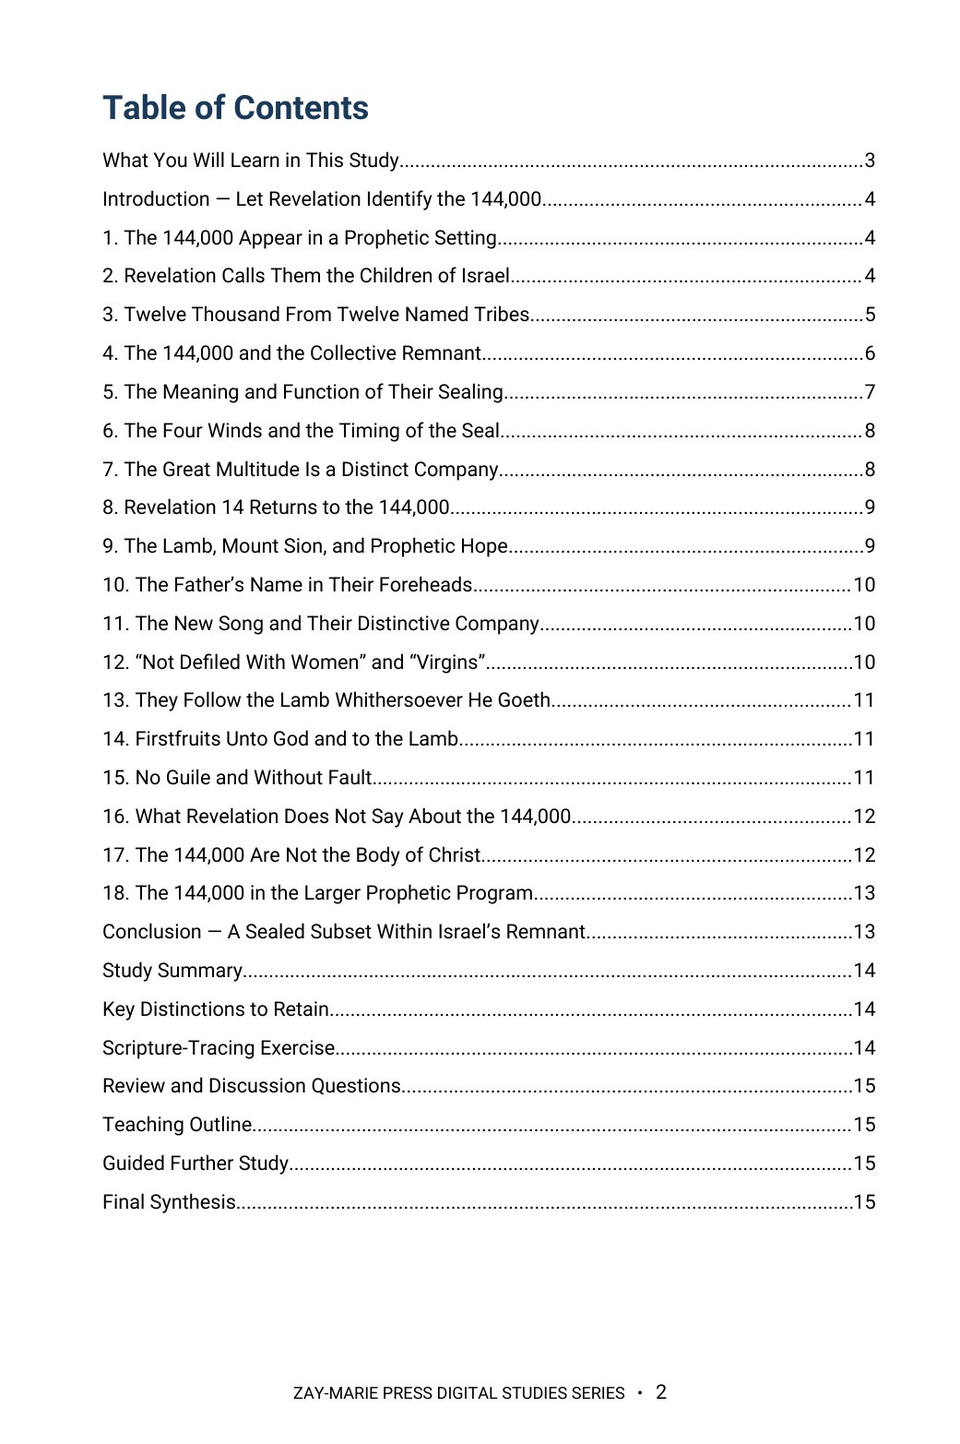
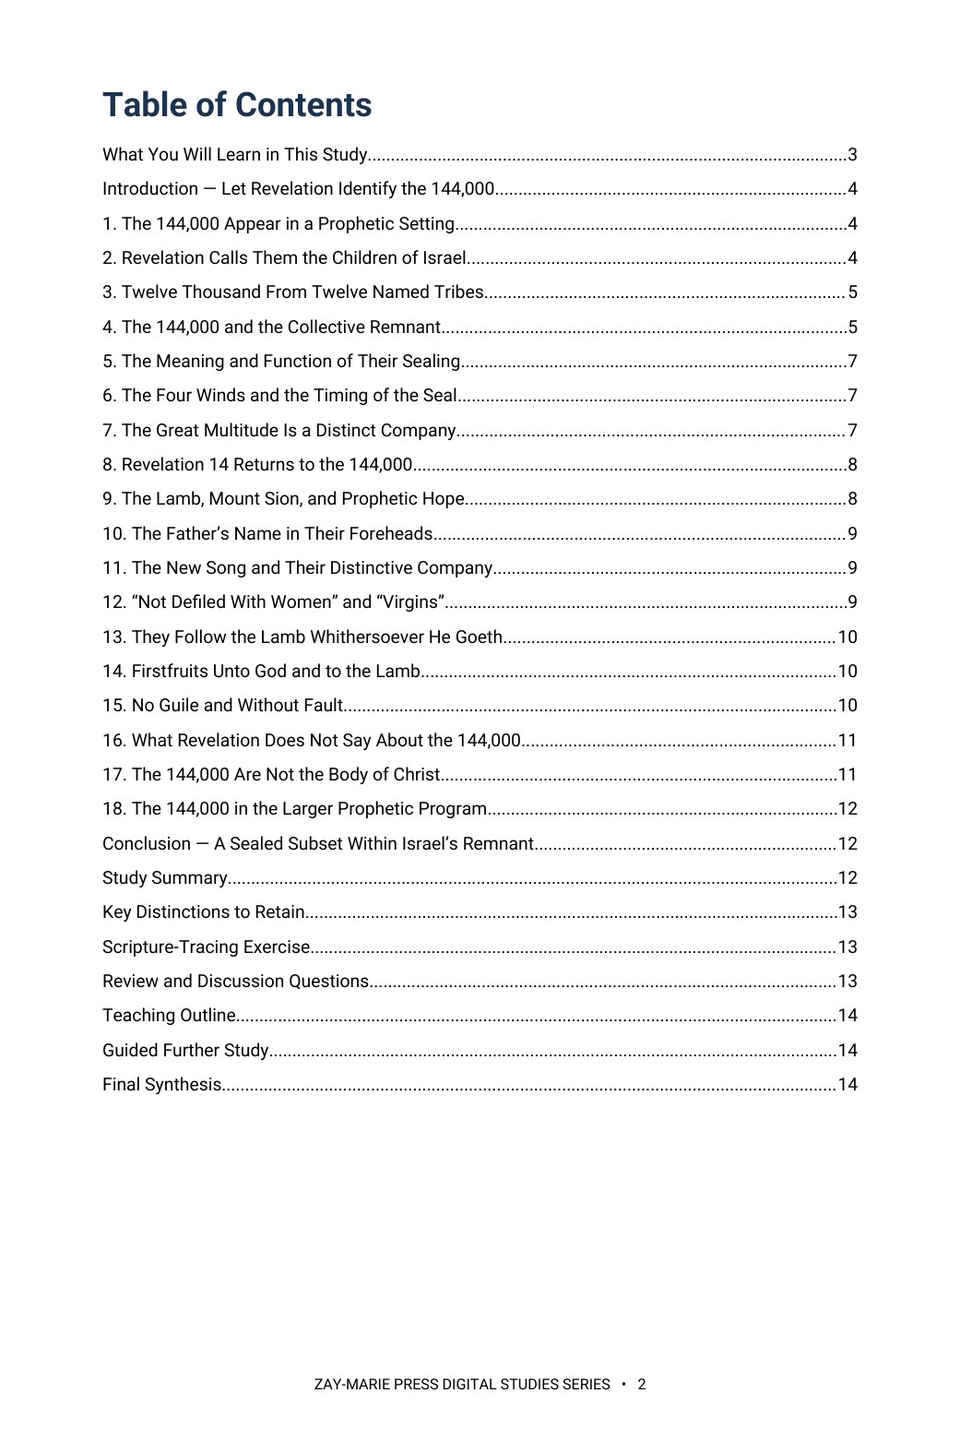
Study 23: retrofit website step (14 pages, previews 2/3/9, trackers v1.36/v1.130)
Claude-Session: https://claude.ai/code/session_01KcENxFzE91mCRyTPWhcwnE

diff --git a/study-23-the-144000.html b/study-23-the-144000.html
@@ -14,7 +14,7 @@
   <body class="study-detail-page">
     <header class="site-header"><div class="wrap nav"><a class="logo" href="index.html" aria-label="Zay-Marie Press home"><img src="assets/zay-marie-press-logo-hq.png" alt="Zay-Marie Press" width="420" height="238" /></a><button class="menu-toggle" type="button" aria-expanded="false" aria-controls="primary-nav">MENU</button><nav aria-label="Primary navigation" class="primary-nav" id="primary-nav"><a href="index.html">HOME</a><a href="books.html">BOOKS</a><a href="series.html">SERIES</a><a class="active" aria-current="page" href="digital-studies.html">DIGITAL STUDIES</a><a href="biblical-hermeneutics-course.html">COURSE</a><a href="about.html">ABOUT</a><a href="resources.html">RESOURCES</a><a href="contact.html">CONTACT</a></nav></div></header>
     <main>
-      <section class="detail-hero"><div class="wrap detail-hero-grid"><div class="detail-cover"><picture><source srcset="assets/study-23-cover.webp" type="image/webp"><img src="assets/study-23-cover.jpg" alt="The 144,000 - Study 23 cover" /></picture></div><div><div class="eyebrow">STUDY 23 · DIGITAL STUDY</div><h1>The 144,000</h1><p class="detail-subtitle">Israel’s Sealed Servants in God’s Prophetic Program</p><p class="detail-kicker">A Biblical Study of Revelation’s Tribal Identification, Sealing, and Distinct Companies</p><p class="detail-copy">Revelation identifies the 144,000 with unusual precision: a numbered company sealed from the tribes of the children of Israel. Their tribal identity, sealing, and later appearance with the Lamb belong within Israel’s prophetic program.</p><p class="detail-copy">This study follows Revelation 7 and 14 to distinguish the 144,000 from Israel’s larger believing remnant, the great multitude, and the Body of Christ. It lets Revelation’s own labels govern the conclusion.</p><div class="detail-buyline"><span class="detail-price">$5.99</span><span class="detail-format">Digital PDF · 16 Pages</span><span class="detail-button pending" aria-disabled="true">Checkout Coming Soon</span></div></div></div></section>
+      <section class="detail-hero"><div class="wrap detail-hero-grid"><div class="detail-cover"><picture><source srcset="assets/study-23-cover.webp" type="image/webp"><img src="assets/study-23-cover.jpg" alt="The 144,000 - Study 23 cover" /></picture></div><div><div class="eyebrow">STUDY 23 · DIGITAL STUDY</div><h1>The 144,000</h1><p class="detail-subtitle">Israel’s Sealed Servants in God’s Prophetic Program</p><p class="detail-kicker">A Biblical Study of Revelation’s Tribal Identification, Sealing, and Distinct Companies</p><p class="detail-copy">Revelation identifies the 144,000 with unusual precision: a numbered company sealed from the tribes of the children of Israel. Their tribal identity, sealing, and later appearance with the Lamb belong within Israel’s prophetic program.</p><p class="detail-copy">This study follows Revelation 7 and 14 to distinguish the 144,000 from Israel’s larger believing remnant, the great multitude, and the Body of Christ. It lets Revelation’s own labels govern the conclusion.</p><div class="detail-buyline"><span class="detail-price">$5.99</span><span class="detail-format">Digital PDF · 14 Pages</span><span class="detail-button pending" aria-disabled="true">Checkout Coming Soon</span></div></div></div></section>
       <section class="detail-section"><div class="wrap"><div class="eyebrow">ABOUT THIS STUDY</div><h2>Who Are the 144,000?</h2><p class="lead">The 144,000 are neither the entirety of Israel’s believing remnant nor a symbolic title for the Body of Christ. Revelation identifies them as a specific, numbered, sealed company from Israel’s tribes.</p><p class="lead">By tracing each explicit marker—tribes, number, seal, company, Lamb, Mount Sion, firstfruits, and faultlessness—the study preserves their place within Israel’s prophetic hope without assigning to them more than Scripture states.</p><p class="lead">This is not a study of Israel’s believing remnant generally, which Study 9 follows across her whole history, nor of Revelation’s seven churches and their own setting, which Study 26 examines first. Its task is narrower: to ask what a specific, numbered, sealed company can be shown to be from the text alone, and to keep that one company from absorbing every promise Scripture makes to a faithful Israelite.</p><div class="study-distinction"><h3>How These Studies Relate</h3><p>Study 23 identifies Revelation’s numbered, sealed Israelite company in chapters 7 and 14.</p><p><a href="study-09-the-remnant.html">Study 9 — The Remnant</a> Compare this specifically numbered tribal company with the wider believing remnant; this prevents one group from standing in for every faithful Israelite.</p><p><a href="study-26-the-seven-churches-of-revelation.html">Study 26 — The Seven Churches of Revelation</a> Read the earlier messages to Revelation’s seven assemblies in their own setting before connecting later scenes and groups in the book.</p><p><a href="study-61-revelation-12.html">Study 61 — Revelation 12</a> See this same numbered company appear as the male child of 12:5, caught up before the dragon can reach him.</p><p class="connection-guide-link"><a href="study-connections.html#study-23">Explore the full connection guide for Study 23 →</a></p></div></div></section>
       <section class="detail-section soft"><div class="wrap"><div class="eyebrow">WHAT YOU’LL STUDY</div><h2>Read Revelation’s Identification on Its Own Terms</h2><div class="study-points">
         <div class="study-point"><h3>Revelation’s Israelite Identification</h3><p>Start with Revelation 7:4, where the sealed company is identified in explicit Israelite and tribal language.</p></div>
@@ -38,7 +38,7 @@
       <section class="detail-section soft"><div class="wrap"><div class="eyebrow">A LOOK INSIDE</div><h2>Preview the Study Before You Purchase</h2><p class="preview-instruction">Click any page to enlarge it for reading.</p><div class="preview-grid">
         <div class="preview-card"><a class="preview-image-link" data-preview-lightbox href="assets/study-23-page-2.jpg"><img src="assets/study-23-page-2.jpg" alt="Study 23 interior preview — page 2, Table of Contents" /></a><div class="page-no">Page 2</div><h3>Table of Contents</h3><p>See the full path of the study, from the first identifiers in Revelation 7 to the final synthesis.</p></div>
         <div class="preview-card"><a class="preview-image-link" data-preview-lightbox href="assets/study-23-page-3.jpg"><img src="assets/study-23-page-3.jpg" alt="Study 23 interior preview — page 3, What You Will Learn in This Study" /></a><div class="page-no">Page 3</div><h3>What You Will Learn in This Study</h3><p>Begin with the textual markers and interpretive disciplines the study will teach.</p></div>
-        <div class="preview-card"><a class="preview-image-link" data-preview-lightbox href="assets/study-23-page-10.jpg"><img src="assets/study-23-page-10.jpg" alt="Study 23 interior preview — page 10, the Father’s name, the new song, and purity" /></a><div class="page-no">Page 10</div><h3>Revelation 14 Description</h3><p>Read the characteristics Revelation 14 adds, one marker at a time.</p></div>
+        <div class="preview-card"><a class="preview-image-link" data-preview-lightbox href="assets/study-23-page-9.jpg"><img src="assets/study-23-page-9.jpg" alt="Study 23 interior preview — page 9, the Father’s name, the new song, and purity" /></a><div class="page-no">Page 10</div><h3>Revelation 14 Description</h3><p>Read the characteristics Revelation 14 adds, one marker at a time.</p></div>
       </div></div></section>
       <section class="detail-section"><div class="wrap"><div class="eyebrow">WHAT’S INCLUDED</div><h2>A Focused Study Built for<br />Understanding and Teaching</h2><div class="includes-grid">
         <div class="include-item"><h3>Revelation 7 Examination</h3><p>Read the seal, number, and tribal list together to identify the 144,000 according to the text.</p></div>

diff --git a/site.js b/site.js
@@ -62,7 +62,7 @@ const resourceModal=document.querySelector('#resource-modal'), resourceModalTitl
 if(resourceModal&&resourceModalTriggers.length){const closeResourceModal=()=>{resourceModal.hidden=true;document.body.classList.remove('resource-modal-open');lastResourceTrigger?.focus();};resourceModalTriggers.forEach(trigger=>trigger.addEventListener('click',()=>{lastResourceTrigger=trigger;if(resourceModalTitle)resourceModalTitle.textContent=trigger.dataset.title||'Resource';if(resourceModalDescription)resourceModalDescription.textContent=trigger.dataset.description||'';if(resourceModalLink){resourceModalLink.href=trigger.dataset.href||'#';resourceModalLink.textContent=trigger.dataset.linkText||'OPEN RESOURCE';}resourceModal.hidden=false;document.body.classList.add('resource-modal-open');resourceModalClose?.focus();}));resourceModalClose?.addEventListener('click',closeResourceModal);resourceModal.addEventListener('click',e=>{if(e.target===resourceModal)closeResourceModal();});document.addEventListener('keydown',e=>{if(e.key==='Escape'&&!resourceModal.hidden)closeResourceModal();});}
 
 /* Display the verified final-PDF page count at the primary purchase decision point. */
-const digitalStudyPageCounts={1:17,2:14,3:16,4:18,5:16,6:16,7:14,8:13,9:16,10:20,11:15,12:15,13:19,14:15,15:16,16:16,17:18,18:18,19:16,20:16,21:17,22:16,23:16,24:16,25:17,26:18,27:16,28:16,29:16,30:17,31:19,32:16,33:16,34:16,35:16,36:16,37:16,38:16,39:16,40:16,41:16,42:16,43:16,44:16,45:16,46:16,47:16,48:16,49:17,50:16,51:16,52:16,53:16,54:16,55:16,56:16,57:16,58:16,61:16,62:16,63:16,64:16,65:16,66:16,67:16,68:16,69:16,70:16,71:16};
+const digitalStudyPageCounts={1:17,2:14,3:16,4:18,5:16,6:16,7:14,8:13,9:16,10:20,11:15,12:15,13:19,14:15,15:16,16:16,17:18,18:18,19:16,20:16,21:17,22:16,23:14,24:16,25:17,26:18,27:16,28:16,29:16,30:17,31:19,32:16,33:16,34:16,35:16,36:16,37:16,38:16,39:16,40:16,41:16,42:16,43:16,44:16,45:16,46:16,47:16,48:16,49:17,50:16,51:16,52:16,53:16,54:16,55:16,56:16,57:16,58:16,61:16,62:16,63:16,64:16,65:16,66:16,67:16,68:16,69:16,70:16,71:16};
 const digitalStudyMatch=window.location.pathname.match(/\/study-(\d+)-/i);
 const digitalStudyFormat=document.querySelector('.detail-hero .detail-format');
 if(digitalStudyMatch&&digitalStudyFormat){const studyNumber=Number(digitalStudyMatch[1]),pageCount=digitalStudyPageCounts[studyNumber];if(pageCount)digitalStudyFormat.textContent=`Digital PDF · ${pageCount} Pages`;}

diff --git a/CLAUDE.md b/CLAUDE.md
@@ -20,7 +20,7 @@ These are kept in the repo at `controlling-documents/` and are the current versi
 - As of v1.47 (publisher directive, 2026-10-02), §6 adds the **Interior Page Geometry and Text Layout Standard**, written into this file in the same pass: every Digital Study, earlier studies included, is set on the later studies' page and layout, not only in Roboto at the same sizes. Page 483.846 × 725.754 pt (9677 × 14515 twips) for cover and interior; cover its own full-bleed section (360 twip margins, no footer); interior margins top 864, bottom 1224, left/right 1031, header 400, footer 475; body left-aligned and flush left with no first-line indent (9 pt black Roboto Regular, 6 pt after, 0 before, 1.08); bold only for run-in leads ("Read:", "Purpose:", "Bring Your Findings Together:") and short emphasis, never a whole paragraph; lists 0 pt after each item and 6 pt after the last, 1.08; callout boxes 7815 twips wide with −100 twip indent; TOC right tab with dot leaders at 7615 twips; only the TOC and What You Will Learn start new pages, later sections flow continuously, and the imprint never stands alone. An earlier study built on any other page size (Letter 612 × 792, 432 × 648) is rebuilt to this geometry when reopened or retrofitted, the page count is recounted and the website updated, and the Heading 1 14 pt / TOC-spacing exemptions for Studies 1–5 and 9 no longer apply to a reopened study. In every study check (Step 1) measure page size, margins, first-line indents, whole-paragraph bold, list spacing, callout width and the TOC tab against Study 52 and report differences. Study 1 is the first earlier study rebuilt to it (17 pages). Preview images are rendered at the page's own aspect (1041×1562 for this page), not stretched.
 **`controlling-documents/Digital_Studies_Relationship_Map_v1.39.md`** — records each study's distinct subject, its related studies, the eight priced six-study collections, the Paul's Missionary Journeys cross-reference map, and the five primary catalog categories (currently version 1.39, covers Studies 1–71; update it as new studies publish, bump the version number, rename the file to match, and log the change in its own version-history table — mirroring the Master Standard's `_vX.Y` filename convention). Check a proposed topic against it before recommending or writing a new study. (2026-09-28: the file was missing from this repo despite this note referencing it; replaced from the publisher's copy and bumped v1.15→v1.25 in the same pass. If this note ever again points to a version not present under `controlling-documents/`, ask the publisher for a copy rather than proceeding without the check.)
 - **`controlling-documents/Digital_Studies_Category_Standard_v1.1.md`** — FINAL and binding (publisher, 2026-10-01): the rules for the five primary catalog categories (Foundations, Israel & Prophecy, Body of Christ, Passages, Doctrinal Themes), the ordered decision procedure for new studies, the precedents, all 71 fixed assignments, and the cover-label form for each category. Read it before placing any card or cover label. Do not ask the publisher where a study belongs; apply the procedure and state the result. Only the publisher changes a ruling; then bump this Standard's version and filename, re-letter the cover, and update the Relationship Map.
-- **`controlling-documents/Doctrinal_Upgrade_Retrofit_Plan_v1.35.md`** — working tracker for retrofitting Studies 1–59 to the 2026-10-02 doctrinal upgrade (Framework/PAM v1.1, Master Standard v1.40, Rules 7–17): withdrawn-wording search keys, impact tiers, waves and the per-study method. Read it before continuing the retrofit in any session; update status, bump the version and rename the file as work proceeds.
+- **`controlling-documents/Doctrinal_Upgrade_Retrofit_Plan_v1.36.md`** — working tracker for retrofitting Studies 1–59 to the 2026-10-02 doctrinal upgrade (Framework/PAM v1.1, Master Standard v1.40, Rules 7–17): withdrawn-wording search keys, impact tiers, waves and the per-study method. Read it before continuing the retrofit in any session; update status, bump the version and rename the file as work proceeds.
 - **`controlling-documents/Doctrinal_Packet_Standard_v0.3.md`** — Doctrinal Packet Standard (DRAFT; §7 approved). Governs the separate Doctrinal Packets product strand (5-page interpretive PDFs per Bible book — a print-friendly cover as page 1 plus 4 content pages, $2.99, KJV, pilot: Genesis, live at `packet-genesis.html`, hub `doctrinal-packets.html`; site pages say "5 Pages", cover styles live in `packets.css`, Old Testament blue and New Testament soft pale green, hub listed in Bible order). **Preview rule (publisher directive, 2026-09-29, packets only):** previews show about one page's worth in two cropped views (top of page 1 through the anchor texts; the chart section) — never the exegesis, architecture, Mystery contrast, logic chain, outline, or closing. Master Standard §16/§17 still govern Digital Studies. Bump the version and rename the file as the Standard is finalized.
 - **`controlling-documents/Preview_Page_Spoiler_Retrofit_Audit_v1.4.md`** — working tracker for the Studies 1–60 preview-page conclusion-spoiler retrofit (see the section below). Read it before continuing that audit in any session; update its status fields and changelog, bump the version, and rename the file to match as the audit proceeds — same `_vX.Y` convention as the other controlling documents. As of v1.1, the website-side half was DONE: all 60 studies' "What You'll Study" text was judged against the rule (methodology documented in the file) and 22 points across 11 studies were rewritten and pushed; an unrelated Study 22 content bug (Study 21's content had leaked into it) was also found and fixed. As of v1.2, the publisher supplied Studies 1–60's interior production PDFs and the interior-PDF half was also surveyed (read-only): 10 studies (37, 41, 45, 47, 48, 49, 51, 52, 53, 54) were found to have at least one interior "What You Will Learn" violation, 50 studies were confirmed compliant, and the orphaned `assets/study-45-sanctification-under-grace.docx` (removed from the repo per the publisher in v1.0) was confirmed word-for-word identical to Study 45's actual production interior PDF content. As of v1.3, the publisher supplied editable DOCX sources for all 10 violating studies; all 15 violating points were rewritten and approved, delivered as corrected final PDFs, and — along the way — a second defect was found and fixed (Studies 47 and 48's source DOCX still had an unintegrated cover placeholder despite both being long-published live with real covers; fixed by inserting the existing approved cover art). The website's "What You Will Learn" preview image (`study-NN-page-3.jpg`) was regenerated from the corrected content for all 10 studies and pushed to `main` (commit `cea1859`), verified against a fresh clone. **The website side of this audit is now fully compliant for all 60 studies.** Outstanding: the publisher's purchasable interior PDF files themselves have corrected versions delivered, but distribution to existing purchasers was decided by the publisher on 2026-09-29: silent swap of the files behind the existing downloads, no reissue notice (recorded in the v1.4 changelog entry; the product files are not in this repo).
 

diff --git a/controlling-documents/Doctrinal_Upgrade_Retrofit_Plan_v1.36.md b/controlling-documents/Doctrinal_Upgrade_Retrofit_Plan_v1.36.md
@@ -47,6 +47,7 @@ Working tracker for correcting published studies to the Framework/PAM v1.1, Mast
 | 7 The Day of the Lord | Tier 2 read (Day-of-the-Lord boundary, Revelation, anchors) | DONE 2026-10-02 (v1.33): interior corrected and rebuilt to the Study 52 page geometry (14 pp, Roboto Regular/Bold/Italic). Day-of-the-Lord reading already conformed (Body not in the Day; THEY/YOU); added the Revelation/Daniel and Gentiles-in-the-Day lines, the Thessalonians reader-facing anchor; 8 'framework' uses reworded; lowercase 'lord/christ' and stray capitals fixed; imprint set to the standard text; cover section made full-bleed with the approved ISRAEL & PROPHECY cover. Website: site.js 7:14, '14-Page', 'ready outline', preview 6->5 at 1041x1562. |
 | 8 The Day of Christ | Tier 2 read (Day-of-the-Lord boundary, anchors, framework wording) | DONE 2026-10-02 (v1.34): interior corrected and rebuilt to the Study 52 page geometry (13 pp, Roboto Regular/Bold/Italic). Day of Christ / Day of the Lord reading already conformed; added the Body-not-in-the-Day line (section 13) and the Philippians/Thessalonians/Colossians reader-facing anchor; 4 'framework' uses reworded; lowercase 'christ/pauline' and stray capitals fixed; imprint to the standard text. Titus 2:13 left unanchored (no ruling). Website: site.js 8:13, '13-Page', 'ready outline', previews 2/3/5 at 1041x1562. |
 | 10 Daniel's Seventieth Week | Tier 2 read (Acts 28, overlap, remnant, Revelation, Rule 18, Romans 11 passing cite, anchors) | DONE 2026-10-02 (v1.35): no DOCX existed, so a DOCX was rebuilt from the publisher's Roboto PDF (text verified word for word; only the listed edits differ) on the Study 52 page geometry (20 pp). Acts 28 standing wording in five places; overlap and Rule 17 sentences (section 3); Body-absent-from-the-week line; Revelation line; 2 Thessalonians anchor; Rule 18 short form (Investigation 2); Romans 11 four-point note + triad (Investigation 5); 'framework' reworded (section 2 now 'Structure'); imprint standard; approved ISRAEL & PROPHECY cover used (PDF carried an older cover). The page-6 diagram image is unchanged at the publisher's direction (title 'IN THE ACTS OVERLAP FRAMEWORK', 'PROPHECY SUSPENDED' marker, caption). Website: site.js 10:20, '20-Page', 'ready outline', previews 2/3/4 at 1041x1562. Title (Introduction) TOC entry left as published. |
+| 23 The 144,000 | Tier 2 read (Revelation, Body absent, Gentile multitude, Romans 11 passing cite in the diagram, anchors) | DONE 2026-10-02 (v1.36): rebuilt to the Study 52 page geometry (16 → 14 pp, Roboto Regular/Bold). Added the Body-not-in-Revelation line (section 17), Gentile multitude conformed to Rule 14 (section 7), 'Israel remains Israel, and the Body is not Israel' and 'belongs to the Mystery revealed through Paul' (section 18); Romans 11 four boundaries and triad added under the diagram (diagram image unchanged); no anchor needed (Revelation assigned); no internal terms. Third preview is now PDF page 9 (study-23-page-9.jpg). Imprint extra KJV sentence left for Wave 5. |
 | 39 The Church's Relationship to Israel's Scriptures | Abrahamic/covenant participation + overlap sentence | DONE 2026-10-02 (v1.23): interior corrected (16 pp, Roboto). Withdrawn overlap sentence replaced with the standing sentence and Acts 28 'not abolition and not a transfer' added (§9); 'Gentiles participate spiritually' replaced by the standing Galatians 3 sentence (§8) and 'whole/every covenant term' partial-transfer wording tightened (§8, Study Summary, Key Distinctions table); Romans 11 four-point list and triad added (Introduction); 2 Timothy and Philippians anchors converted and a Colossians anchor added. Sections moved down: TOC updated (7 numbers); 16 pp. Website: previews 2, 3, 5 re-rendered at 1041x1565; site.js 39:16 unchanged |
 | 40 Who Is Abraham's Seed? | Gal 3 / Abrahamic participation (core) | DONE 2026-10-02 (v1.22): interior corrected (16 pp, Roboto). Withdrawn overlap sentence replaced with the standing sentence (Introduction); Romans 11 four-point list and triad added (Introduction); the 'Gentiles participate spiritually / Abrahamic heirship, benefit, inheritance, connection' family replaced with the standing Galatians 3 sentence and plain wording (§6, §8, §10, Study Summary, Key Distinctions table); Romans 4 'participate in promise' and Teaching Outline 'share that benefit' reworded. Sections moved down: TOC updated (Conclusion p10, Scripture-Tracing p11, Guided Further Study p16); 16 pp. Website: preview pages 2, 3 and 4 re-rendered; site.js 40:16 unchanged |
 | 52 Sonship and Adoption | Gal 3 / Abrahamic participation | DONE 2026-10-02 (v1.21): interior corrected (16 pp, Roboto). Withdrawn Galatians 3:26–29 'Gentiles participate spiritually / ethnic distinction is kept' wording replaced by the standing Galatians 3 sentence (3.4) and the 'participation in the seed is spiritual' line reworded; Study 40 pointer parenthetical removed; nine 'The Framework does not assign…' anchors and the Hebrews sentence converted to the reader-facing forms; Romans 11 four-point list and triad added (Group 3). Shorter anchors moved sections up a page, so TOC numbers updated (§5 p9, §6 p11, Conclusion p12, etc.); total still 16 pp. Website: page-2 (TOC) preview re-rendered; pages 3 and 5 unchanged |
@@ -116,3 +117,4 @@ Working tracker for correcting published studies to the Framework/PAM v1.1, Mast
 - v1.33 (2026-10-02): Study 7 retrofit complete (see row). Next: Wave 4 remainder (8, 10, 23, 26, 29, 31, 32, 33): DOCX needed from the publisher for each.
 - v1.34 (2026-10-02): Study 8 retrofit complete (see row). Next: Wave 4 remainder (10, 23, 26, 29, 31, 32, 33): DOCX needed from the publisher for each. Open: ask whether Titus joins the anchored-letters list.
 - v1.35 (2026-10-02): Study 10 retrofit complete (see row). Next: Wave 4 remainder (23, 26, 29, 31, 32, 33): DOCX needed from the publisher for each. Open: Titus anchor ruling; Study 10 DOCX now exists (first editable source).
+- v1.36 (2026-10-02): Study 23 retrofit complete (see row). Next: Wave 4 remainder (26, 29, 31, 32, 33): DOCX needed from the publisher for each. Open: Titus anchor ruling.

diff --git a/controlling-documents/Digital_Studies_PAM_Audit_v1.130.md b/controlling-documents/Digital_Studies_PAM_Audit_v1.130.md
@@ -359,3 +359,4 @@ Study 15 PDF not yet supplied. Typography: none of Studies 2, 3, 6, 8 is in EB G
 - v1.127 (2026-10-02): Study 7 footer corrected to the standard text "ZAY-MARIE PRESS DIGITAL STUDIES SERIES • page" (the build had kept the source title footer); previews 2, 3, 5 re-rendered. Wave 5: Study 3 footer is gray 5A5A5A at 7.5 pt where Study 52 is 333333 at 8.5 pt; recheck Studies 1, 3, 7.
 - v1.128 (2026-10-02): Study 8 retrofitted: Body-not-in-the-Day line, Philippians/Thessalonians/Colossians anchor, 'framework' wording removed; rebuilt to the standard page geometry (13 pp); Titus 2:13 unanchored pending ruling.
 - v1.129 (2026-10-02): Study 10 retrofitted (DOCX rebuilt from the publisher's PDF; standing Acts 28/overlap/Rule 17/Daniel/Revelation/Rule 18/Romans 11 wording, anchor, 'framework' removed; 20 pp on the standard geometry); diagram image left unchanged by the publisher.
+- v1.130 (2026-10-02): Study 23 retrofitted: Body-not-in-Revelation line, Gentile multitude and Israel/Body wording conformed, Romans 11 boundaries added under the diagram; rebuilt to the standard page geometry (14 pp); third preview is PDF page 9.
